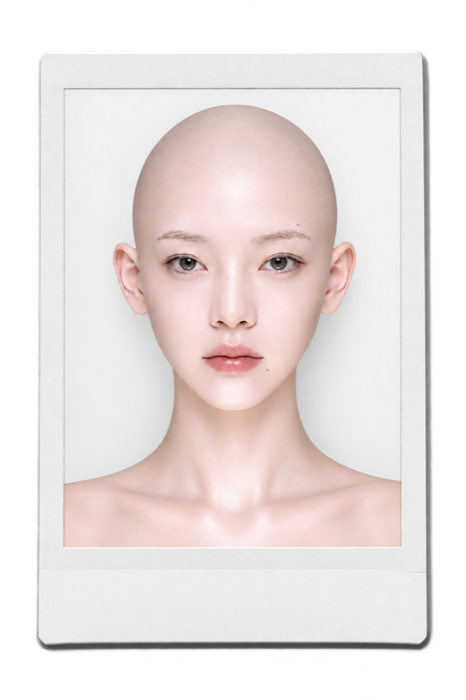
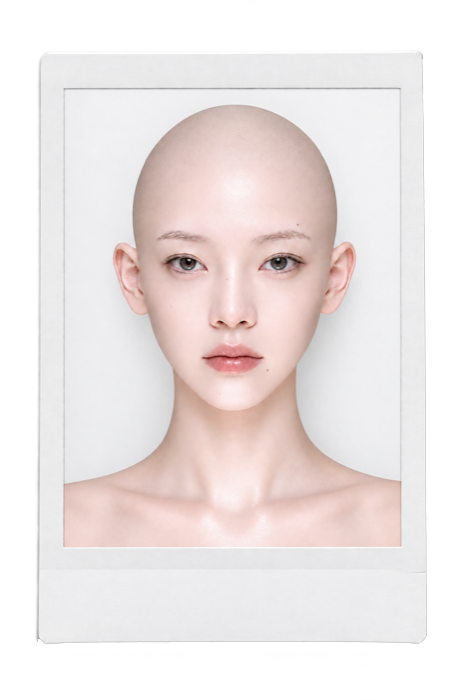
인물 사진에서 그림자를 뺀 원본으로 교체하고, 그림자는 drop-shadow 필터로 재구현
기존 이미지는 폴라로이드 그림자가 사진 안에 그려져 있어 서류(데스크탑)와
카드 스택(모바일)처럼 표시 크기가 크게 다른 곳에서 그림자 비율이 안 맞았음.
그림자 없는 원본으로 교체하고, 알파 채널을 따라가는 drop-shadow를 각 표시
크기에 맞게 적용해 어디서나 자연스러운 그림자가 나오게 함

Changed region(s): [[0.0901, 0.06, 0.9313, 0.93]]

diff --git a/css/gain.css b/css/gain.css
@@ -558,6 +558,10 @@ body {
   width: 176px;
   height: 176px;
   object-fit: contain;
+  /* 사진(폴라로이드) 원본에 그림자가 그려져 있었으나, 크기별로 그림자
+     비율이 안 맞아 코드(필터)로 옮김 — 알파 채널을 따라가는 실제 카드
+     테두리 모양대로 그림자가 지도록 box-shadow 대신 drop-shadow를 쓴다. */
+  filter: drop-shadow(0 8px 16px rgba(0, 0, 0, 0.16)) drop-shadow(0 2px 4px rgba(0, 0, 0, 0.10));
 }
 
 /* 모바일 카드 스택 안의 사람 이미지만 더 크게, 조금 더 아래로 내려서 보여준다. */
@@ -610,6 +614,8 @@ body {
   margin-top: 26px;
   transform: rotate(-3deg);
   cursor: zoom-in;
+  /* 서류에서는 사진이 훨씬 크게 보이므로 그림자도 비례해 더 크고 넓게. */
+  filter: drop-shadow(0 16px 32px rgba(0, 0, 0, 0.20)) drop-shadow(0 3px 6px rgba(0, 0, 0, 0.12));
 }
 
 /* 화면을 어둡게 가리고 그 위에 클릭한 얼굴 사진을 크게 보여주는 라이트박스. */

diff --git a/index.html b/index.html
@@ -22,7 +22,7 @@
     <meta name="twitter:description" content="웜톤/쿨톤부터 16타입 퍼스널 컬러까지, 인터랙티브 드레이핑 시뮬레이션으로 직접 진단해보는 퍼스널 컬러 웹 도구입니다.">
     <meta name="twitter:image" content="https://personalrgb.github.io/Personal-RGB/personal-rgb-logo.png">
 
-    <link rel="stylesheet" href="css/gain.css?v=20260819n">
+    <link rel="stylesheet" href="css/gain.css?v=20260821a">
     <link rel="icon" type="image/png" href="icon-palette.png">
 
   <link rel="preconnect" href="https://fonts.googleapis.com">
